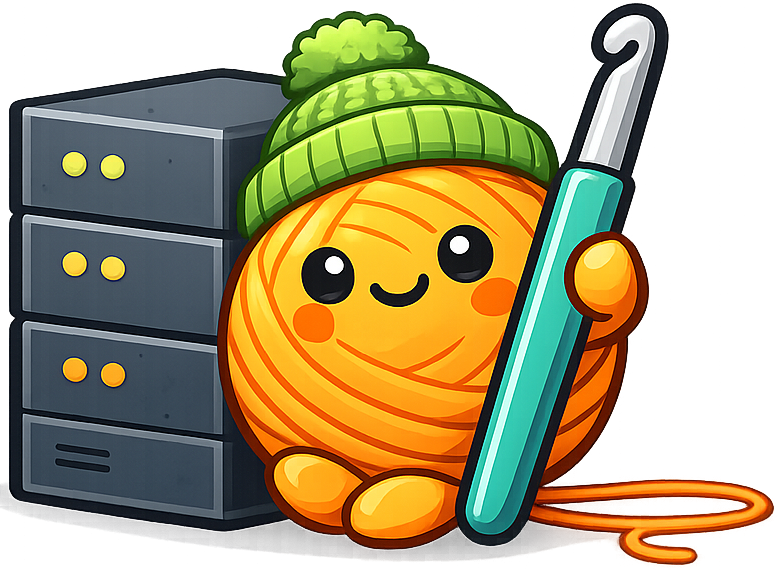
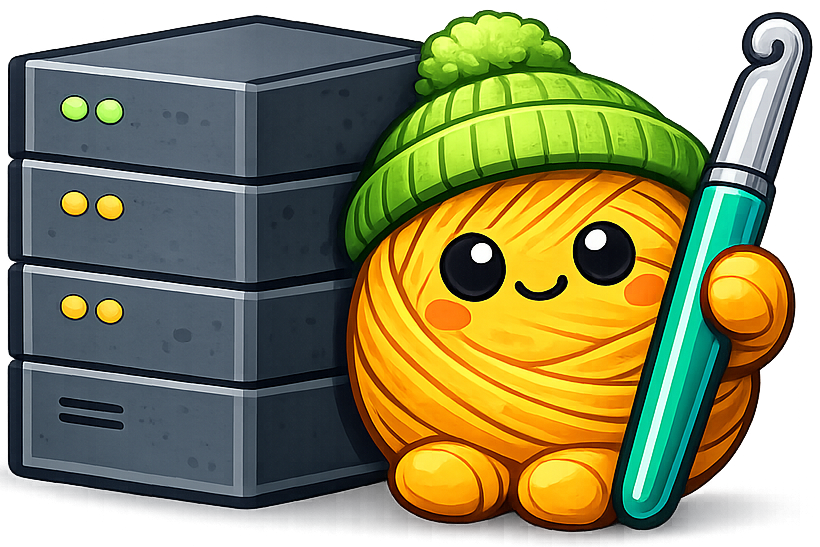
Add backup structure documentation and update mascot
- Add backup ZIP file structure diagram to backups-and-data.md
- Remove emoji icons from pattern folder tree in pattern-management.md
- Update mascot image (yarnboi.png) with new design
- Remove old Yarnboi.png from root directory

diff --git a/docs/guide/backups-and-data.md b/docs/guide/backups-and-data.md
@@ -23,6 +23,28 @@ Never lose your progress.
 
 ---
 
+## Backup Structure
+
+When you create a backup with notes included, the ZIP file contains:
+
+```
+yarnl-backup-2026-01-20T12-00-00.zip
+├── database.json
+├── settings.json
+├── patterns/
+│   └── [category]/
+│       ├── *.pdf (if PDF patterns included)
+│       └── *.md (if markdown patterns included)
+├── images/            (if markdown patterns included)
+├── archive/           (if archive included)
+└── notes/             (if notes included)
+    └── *.md
+```
+
+You can choose what to include when creating a backup—patterns, notes, and archives are optional.
+
+---
+
 ## Creating Backups
 
 <div className="steps-grid">

diff --git a/docs/guide/pattern-management.md b/docs/guide/pattern-management.md
@@ -89,8 +89,8 @@ Add flexible tags for filtering:
 Patterns automatically sort into folders by category:
 
 ```
-📁 Patterns
-├── 📁 Amigurumi
-├── 📁 Wearables
-└── 📁 Uncategorized
+Patterns
+├── Amigurumi
+├── Wearables
+└── Uncategorized
 ```
